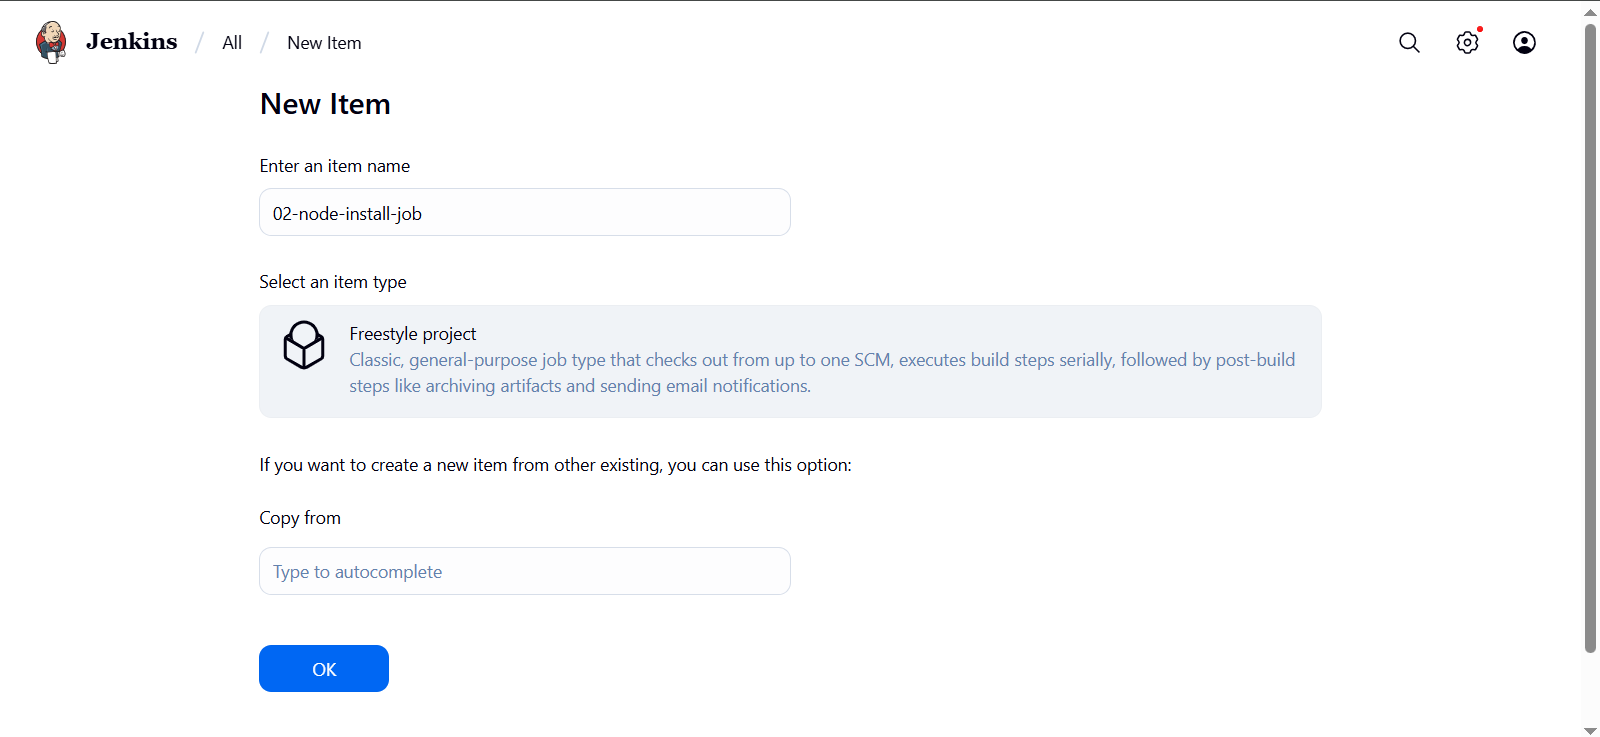
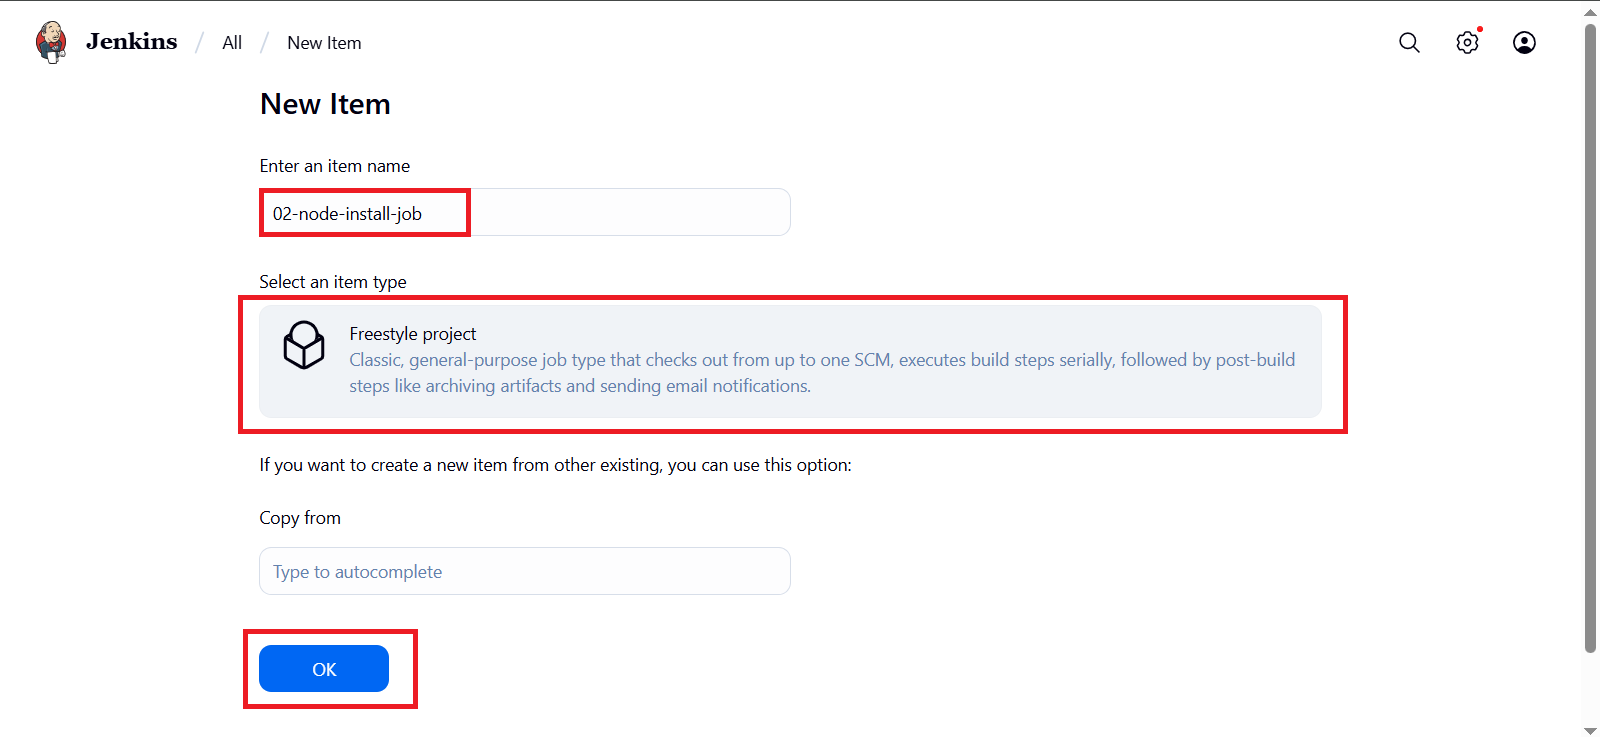
added

diff --git a/README.md b/README.md
@@ -67,46 +67,142 @@ We will create three Jenkins freestyle jobs to automate the deployment pipeline:
 
 02-node-install-job: Install Node.js dependencies (npm install).
 
-![ubuntu](imgs/02-node-install-job-new-item-6.png)
-
 03-node-deploy-job: Deploy/start the Node.js application using PM2.
 
-![ubuntu](imgs/03-node-deploy-job-10.png)
 Project 1: 01-node-pull-job
 
 ---
 ### Open Jenkins web interface.
 
-Click New Item.
+- Click New Item.
 
-Enter name: 01-node-pull-job.
+- Enter name: 01-node-pull-job.
 
-Choose Freestyle project, click OK.
+- Choose Freestyle project, click OK.
 
 ![ubuntu](imgs/node-pull-job-1.png)
 
-Scroll to Source Code Management, select Git.
+- Scroll to Source Code Management, select Git.
 
 ![ubuntu](imgs/select-git-repo-2.png)
 
 ![ubuntu](imgs/branch-main-3.png)
 
-Enter your Git repository URL, e.g.:
+- Enter your Git repository URL, e.g.:
 https://github.com/iamtruptimane/node-js-app-CICD.git
 
-Under Build Triggers, optionally configure how and when to trigger builds.
+- Under Build Triggers, optionally configure how and when to trigger builds.
 
-Scroll to Post-build Actions.
+- Scroll to Post-build Actions.
 
-Select Build other projects.
+- Select Build other projects.
+
 ![ubuntu](imgs/build-other-project-4.png)
 
-Enter 02-node-install-job as the downstream job.
+- Enter 02-node-install-job as the downstream job.
 
 
 ![ubuntu](imgs/projects-to-build-5.png)
 
-Click Save.
+- Click Save.
 
+### Project 2: 02-node-install-job
+Create a new freestyle project named 02-node-install-job.
 
+Click OK.
 
+![ubuntu](imgs/02-node-install-job-new-item-6.png)
+
+Add a Build Step → Execute Shell.
+
+![ubuntu](imgs/add-build-steps-7.png)
+
+Enter the shell script
+```
+cd /var/lib/jenkins/workspace/01-node-pull-job
+sudo npm install
+```
+Explanation: This moves to the workspace where the code was pulled and installs all dependencies listed in package.json.
+
+- Scroll to Post-build Actions.
+- Select Build other projects.
+
+- Enter 03-node-deploy-job.
+
+- Click Save.
+
+![ubuntu](imgs/execute-shell-8.png)
+
+---
+## Project 3: 03-node-deploy-job
+Create a new freestyle project named 03-node-deploy-job.
+
+Click OK.
+![ubuntu](imgs/03-node-deploy-job-10.png)
+
+Add a Build Step → Execute Shell.
+
+![ubuntu](imgs//execute-shell-13.png)
+Enter the shell script:
+
+```
+cd /var/lib/jenkins/workspace/02-node-install-job
+sudo pm2 start app.js || pm2 restart app.js
+```
+Explanation: This navigates to the workspace and starts the Node.js app using PM2. If it’s already running, it restarts it to reflect the new code.
+- Click Save.
+
+---
+### Running the Pipeline
+- Go to Jenkins dashboard.
+
+- Click on 01-node-pull-job.
+
+- Click Build Now.
+
+- This will trigger the downstream jobs in order:
+
+- 01-node-pull-job (pull code),
+
+- then 02-node-install-job (install dependencies),
+
+- then 03-node-deploy-job (deploy app).
+
+---
+### Open Your Application Port
+Make sure port 3000 (or the port your Node.js app listens on) is open in your server’s firewall or cloud security group:
+
+- For AWS Security Group:
+
+- Type: Custom TCP
+
+- Port Range: 3000
+
+- Source: Anywhere (0.0.0.0/0) or your IP range
+
+---
+### Access the Application
+Open your browser and go to:
+```
+http:http://3.95.238.208:3000/
+
+```
+You should see your Node.js application running!
+
+- Jenkins acts as the orchestrator, running the pipeline jobs.
+
+- The GitHub repo hosts your Node.js application code.
+
+- PM2 ensures your app runs continuously and restarts on failure.
+
+- The application is accessible externally on port 3000.
+
+---
+### Conclusion
+By setting up Node.js deployment on Jenkins using freestyle projects, you’ve built a simple yet effective CI/CD pipeline that automates pulling code from a repository, installing dependencies, and deploying the application with PM2.
+
+This approach not only saves time but also reduces human errors, ensuring your application is always up-to-date and running smoothly. While freestyle projects are great for getting started, you can later upgrade to Jenkins Pipeline as Code for more flexibility, scalability, and better maintainability.
+
+With the right automation in place, you can focus more on building features and less on managing deployments — turning ideas into running applications faster than ever! 
+
+---
